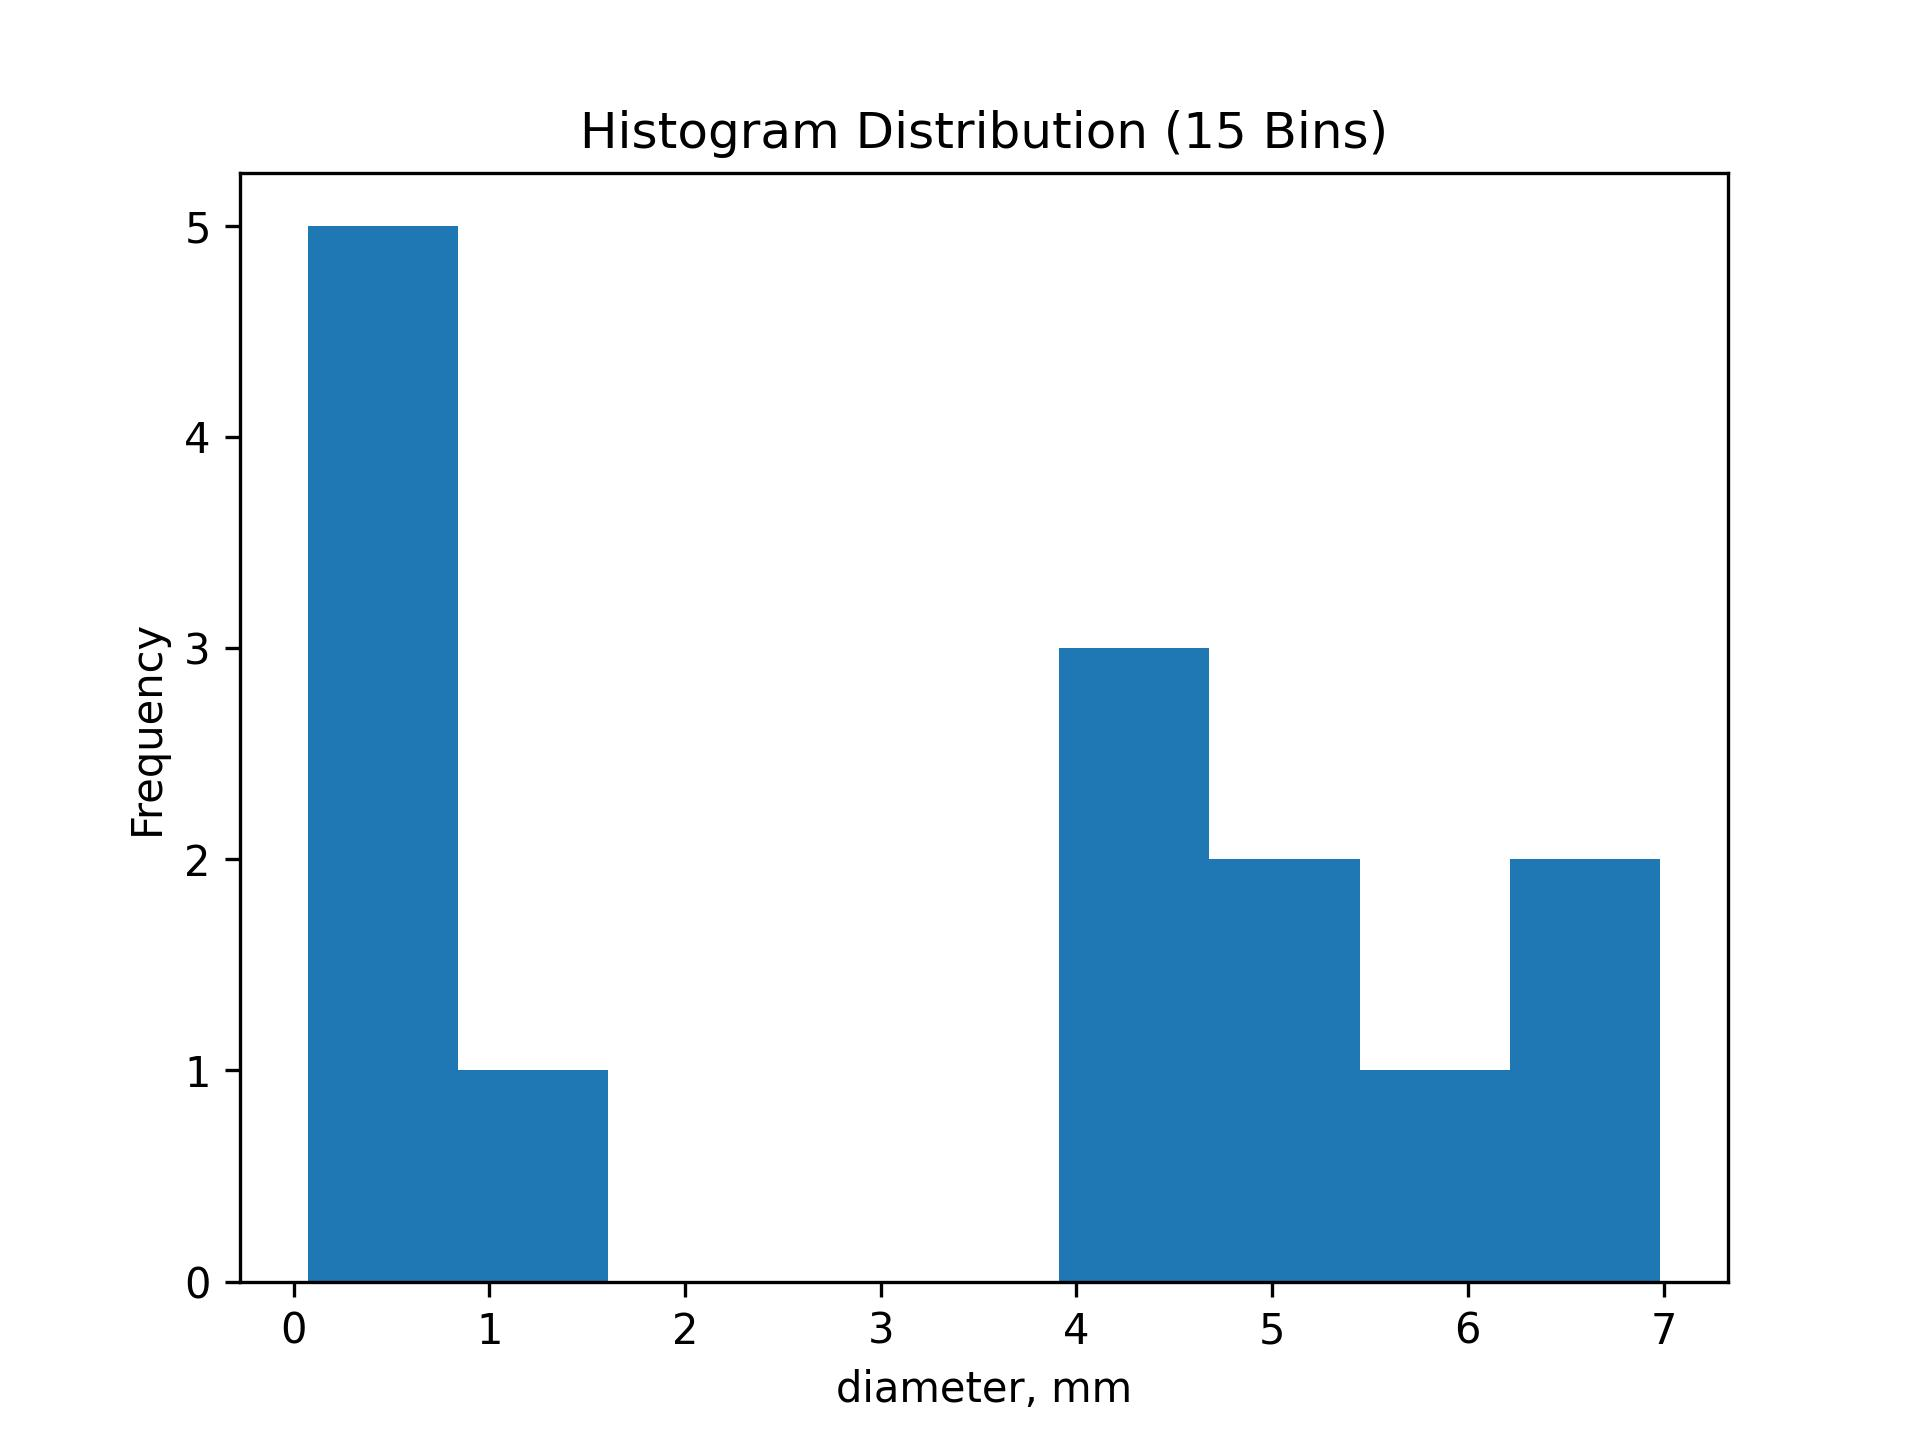
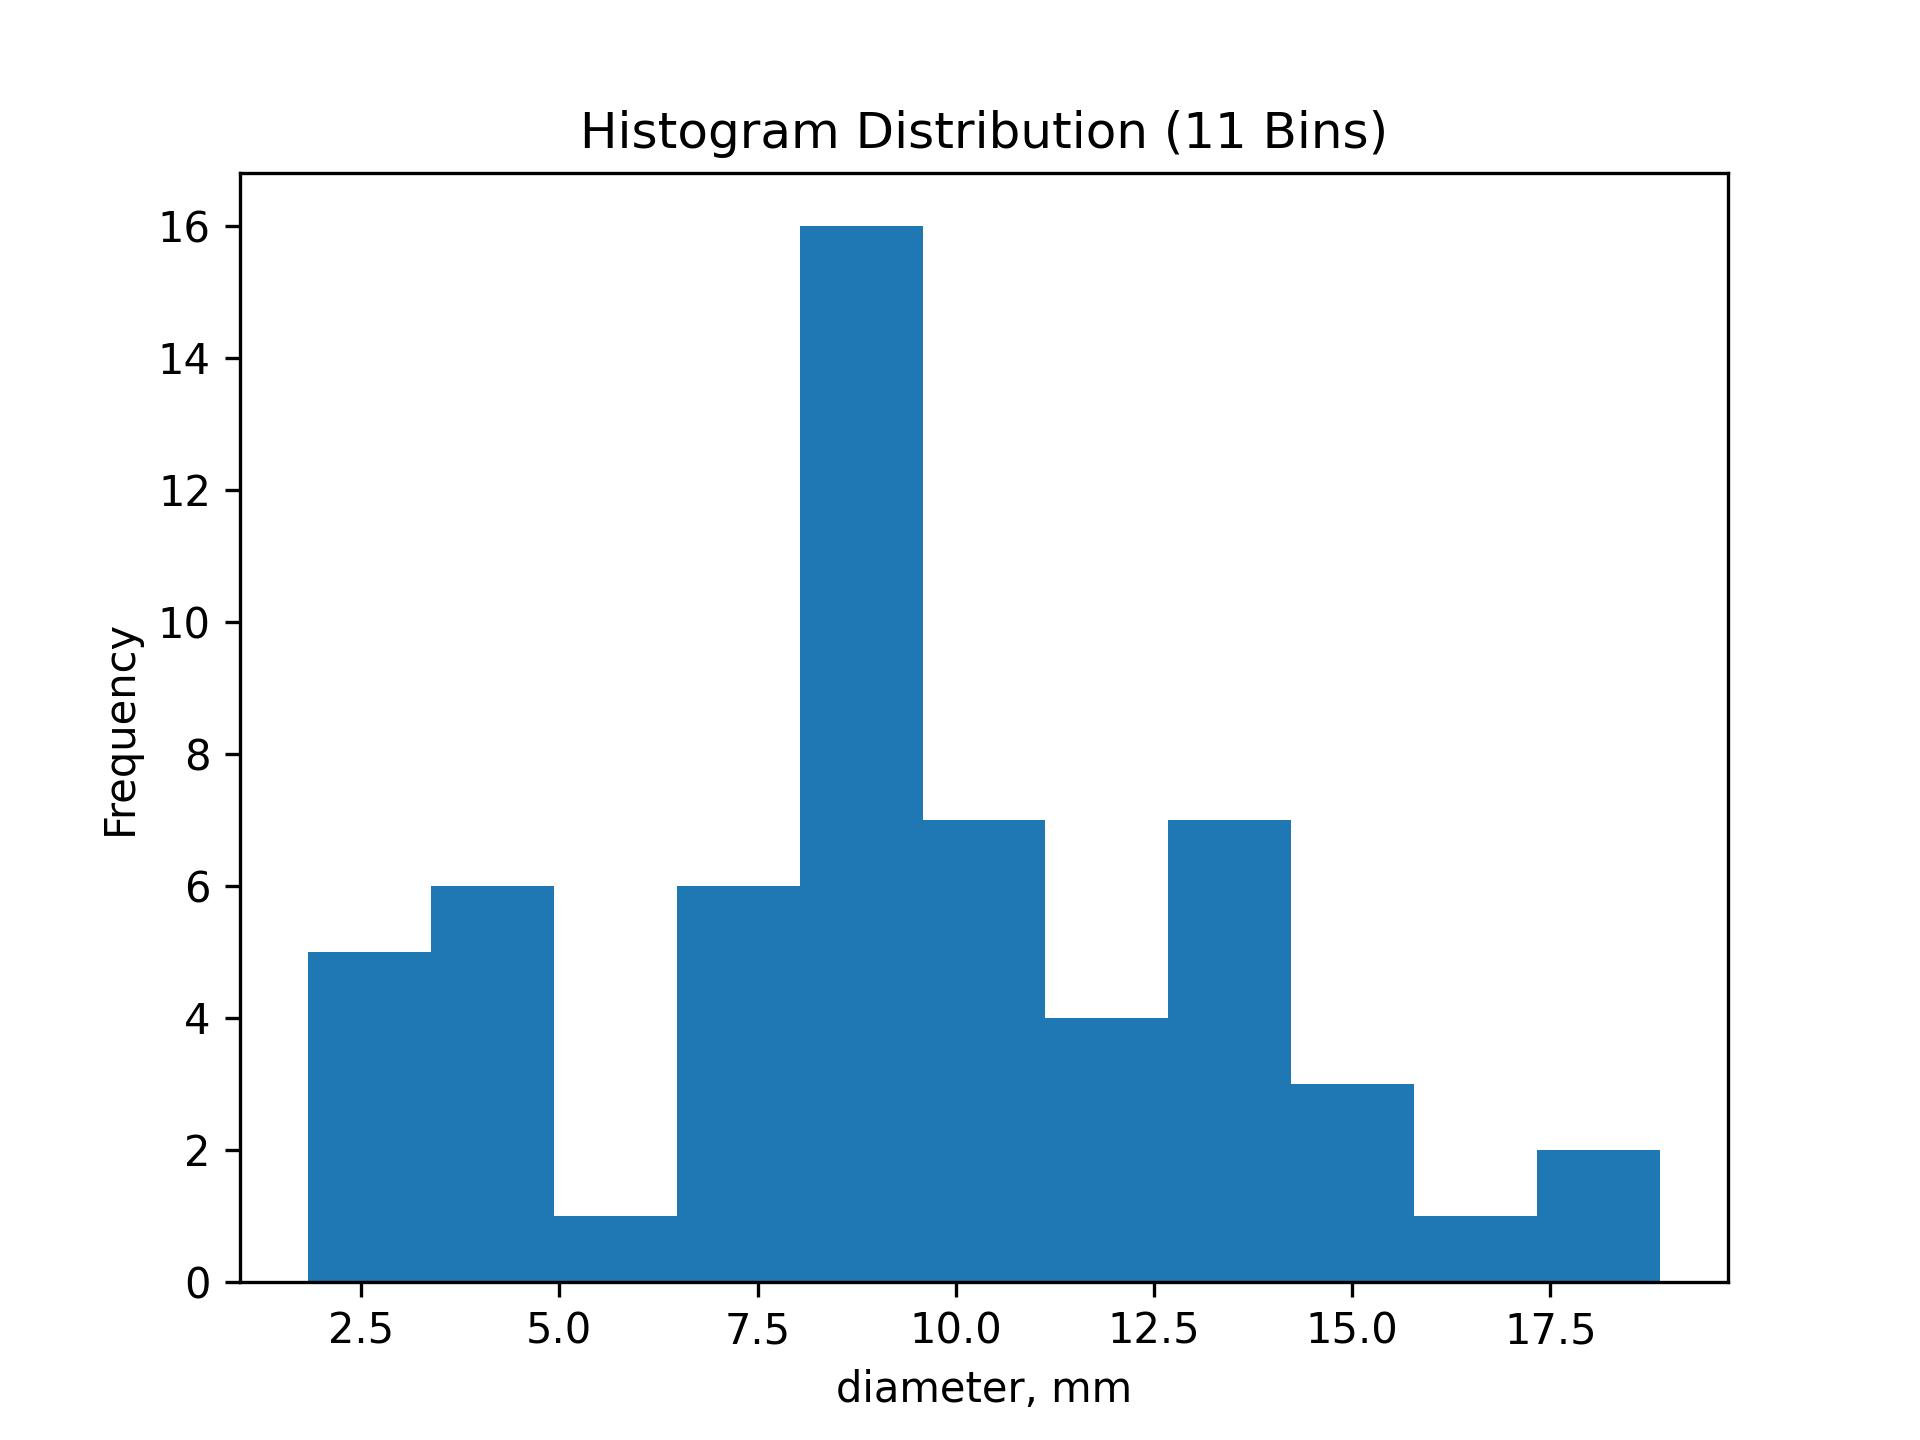
wayyyyy better

diff --git a/v2/061019_0.7scfh_125fps_C001H001S0001/Jiaqi_python.py b/v2/061019_0.7scfh_125fps_C001H001S0001/Jiaqi_python.py
@@ -2,6 +2,9 @@ import cv2
 import numpy as np
 import os
 from glob import glob
+import pandas as pd
+from skimage import measure
+import matplotlib.pyplot as plt
 
 # -----------------------
 # USER SETTINGS
@@ -9,6 +12,7 @@ from glob import glob
 input_dir = "frames_partial"          # folder with images
 background_path = "background.jpg"
 output_dir = "output"
+csv_file = os.path.join(output_dir, "bubble_data.csv")
 
 # cropping: (y1:y2, x1:x2)
 crop = (0, 600, 300, 650)
@@ -40,16 +44,12 @@ bg_inv = np.clip(bg_inv, 0, 255)
 # LOAD FRAMES
 # -----------------------
 image_paths = sorted(glob(os.path.join(input_dir, "*.png")))
-
 if end_frame is None:
     end_frame = len(image_paths)
-
 image_paths = image_paths[start_frame:end_frame:step]
 
 # -----------------------
 # HELPERS
-# -----------------------
-
 def fill_holes(binary):
     h, w = binary.shape
     mask = np.zeros((h+2, w+2), np.uint8)
@@ -57,21 +57,6 @@ def fill_holes(binary):
     cv2.floodFill(flood, mask, (0, 0), 255)
     flood_inv = cv2.bitwise_not(flood)
     return binary | flood_inv
-
-def fill_holes_strong(binary):
-    # Invert
-    inv = cv2.bitwise_not(binary)
-
-    # Flood fill background
-    h, w = inv.shape
-    mask = np.zeros((h+2, w+2), np.uint8)
-    cv2.floodFill(inv, mask, (0,0), 255)
-
-    # Invert back
-    inv = cv2.bitwise_not(inv)
-
-    # Combine
-    return binary | inv
 
 def process_frame(img, bg_inv):
     # crop
@@ -122,13 +107,14 @@ def process_frame(img, bg_inv):
 
 # -----------------------
 # MAIN LOOP
-# -----------------------
 vof_accumulator = None
 n_frames = len(image_paths)
 
+# store bubble data
+bubble_data = []
+
 for i, path in enumerate(image_paths):
     img = cv2.imread(path, cv2.IMREAD_GRAYSCALE)
-
     clean, bw, filled = process_frame(img, bg_inv)
 
     # initialize accumulator
@@ -143,6 +129,27 @@ for i, path in enumerate(image_paths):
     cv2.imwrite(os.path.join(output_dir, f"{name}_bw.png"), bw)
     cv2.imwrite(os.path.join(output_dir, f"{name}_filled.png"), filled)
 
+    # -----------------------
+    # bubble detection
+    # -----------------------
+    labeled = measure.label(filled)
+    props = measure.regionprops(labeled)
+
+    for p in props:
+        radius = np.sqrt(p.area / np.pi)
+        diameter = 2 * radius
+
+        # record xy centroid (row, col)
+        y, x = p.centroid
+
+        bubble_data.append({
+            "frame": i,
+            "x": x,
+            "y": y,
+            "diameter_px": diameter,
+            "area_px": p.area
+        })
+
     if i % 10 == 0:
         print(f"Processed {i}/{n_frames}")
 
@@ -151,5 +158,22 @@ for i, path in enumerate(image_paths):
 # -----------------------
 vof = (vof_accumulator * 255).astype(np.uint8)
 cv2.imwrite(os.path.join(output_dir, "vof.png"), vof)
+
+# -----------------------
+# WRITE CSV
+# -----------------------
+df = pd.DataFrame(bubble_data)
+df.to_csv(csv_file, index=False)
+print(f"Saved bubble data to {csv_file}")
+
+diameter=np.array(df["diameter_px"])
+
+plt.figure()
+plt.hist(diameter/333*25.4*2.5, bins=11)
+plt.xlabel("diameter, mm")
+plt.ylabel("Frequency")
+plt.title("Histogram Distribution (11 Bins)")
+plt.savefig('hist.jpg',dpi=300)
+
 
 print("Done.")

diff --git a/README.md b/README.md
@@ -2,7 +2,7 @@
 
 1. make a python environment
 2. pip install git+https://github.com/facebookresearch/segment-anything.git
-3. pip install opencv-python pycocotools matplotlib onnxruntime onnx torch torchvision
+3. pip install opencv-python pycocotools matplotlib onnxruntime onnx torch torchvision pandas scikit-image
  - and whatever other dependencies give an error on trying to run, overall needs several gigabytes of space.
 4. download a "model checkpoint". starting with the smallest model "vit_b" which runs fine on cpu only. later will use vit_h on come cuda hardware (MTDL01)
  - https://dl.fbaipublicfiles.com/segment_anything/sam_vit_b_01ec64.pth
